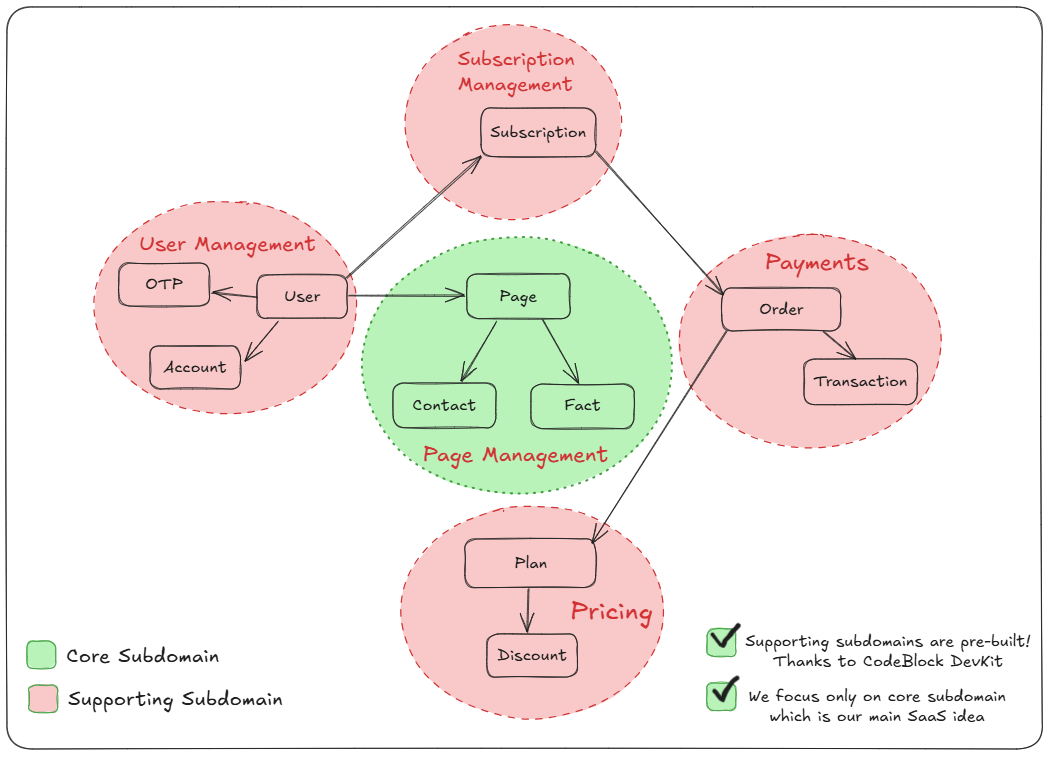
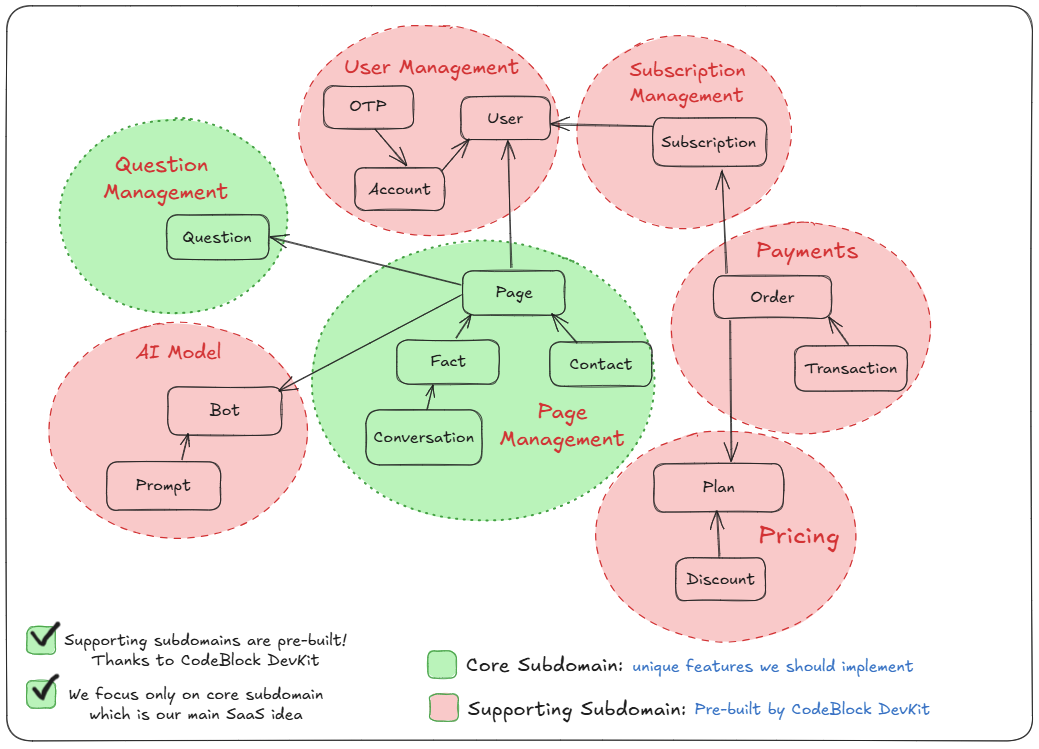
chore: update docs

diff --git a/README.md b/README.md
@@ -1,24 +1,56 @@
 # Hey It's Me! 🎯
 
-A personal page builder SaaS where users create pages to share facts about themselves, social links, and contact information.
+Create your personal fact page with AI and share it on social media. Build deeper connections by sharing authentic stories, achievements, failures, and secrets that help others discover the real you.
 
 **Live Demo:** [hey-it-is.me](https://hey-it-is.me/)
 
+![Hey It's Me Landing Page](landing-shot-1.png)
+
 ## 🚀 What is Hey It's Me?
 
-Hey It's Me! is a SaaS application built with [CodeBlock DevKit](https://codeblock.dev) that lets users create personal pages to introduce themselves through facts, social links, and contact information. Think Linktree, but focused on sharing personal facts that help people get to know you better.
+Hey It's Me! is an AI-powered personal page builder that transforms simple conversations into stunning visual facts about yourself. Unlike traditional bio pages, we help you share intimate stories, achievements, failures, and secrets that create authentic relationships based on genuine understanding.
+
+### ✨ Key Features
+
+- **AI-Powered Fact Generation**: Chat with our AI that asks questions and generates interesting facts about you
+- **Professional AI Images**: Our AI generates beautiful images for each fact based on your photo and the fact content
+- **Personalized URLs**: Create unique links like `hey-it-is.me/yourname`
+- **Social Media Integration**: Perfect for Instagram, X (Twitter), TikTok, and other platforms
+- **Analytics & Insights**: Track who's interested in your story
+- **Multiple Plans**: From Essential (20 facts) to Premium (100 facts) with unlimited contacts
+
+## 🎯 Why Create Your Fact Page?
+
+### Build Deeper Connections
+Share intimate facts and stories that create authentic relationships based on genuine understanding.
+
+### Share Without Judgment
+Express your failures, achievements, and secrets without fear of judgment. Create a safe space to be authentically yourself.
+
+### Find Your Perfect Match
+Help others discover shared interests, values, and personality traits. Your page becomes a magnet for like-minded people.
+
+### Boost Your Online Presence
+Get discovered by search engines and AI models. Track analytics to see who's interested in your story.
 
 ## 🏗 Built With CodeBlock DevKit
 
-This project is built using the [CodeBlock DevKit SaaS Template](https://github.com/CodeBlock-Dev/CodeBlock.DevKit.SaaS.Template) and serves as a complete example of how to build and deploy a SaaS application using the DevKit.
+This project is built using the [CodeBlock DevKit SaaS Template](https://github.com/CodeBlock-Dev/CodeBlock.DevKit.SaaS.Template) and serves as both:
+
+1. **A Complete Open-Source Example** - Perfect for CodeBlock DevKit users to learn from
+2. **A Real Production SaaS** - A live application generating revenue
+
+### Follow the Journey
+
+Join us on [X (Twitter)](https://twitter.com/hamed_shirbandi) to follow the development journey and see how we're building and growing this SaaS application.
 
 ### Why This SaaS Idea?
 
-- **Small scope**: Buildable in ~10 days
-- **Easy to understand**: Perfect for demonstrating the full SaaS development process
-- **Validated concept**: Similar to Linktree but with a unique twist
-- **Simple business model**: Subscription-based page creation
-- **Room for growth**: Analytics, likes & comments, featured pages, and more
+- **Validated Concept**: Similar to Linktree but with AI-powered personal storytelling
+- **Clear Value Proposition**: Help people share authentic stories and build deeper connections
+- **Scalable Business Model**: Subscription-based with room for premium features
+- **AI Integration**: Leverages modern AI for content and image generation
+- **Social Media Ready**: Perfect for the current social media landscape
 
 ## 🏛 Domain Model
 ![Domain Model](docs/domain-model.png)
